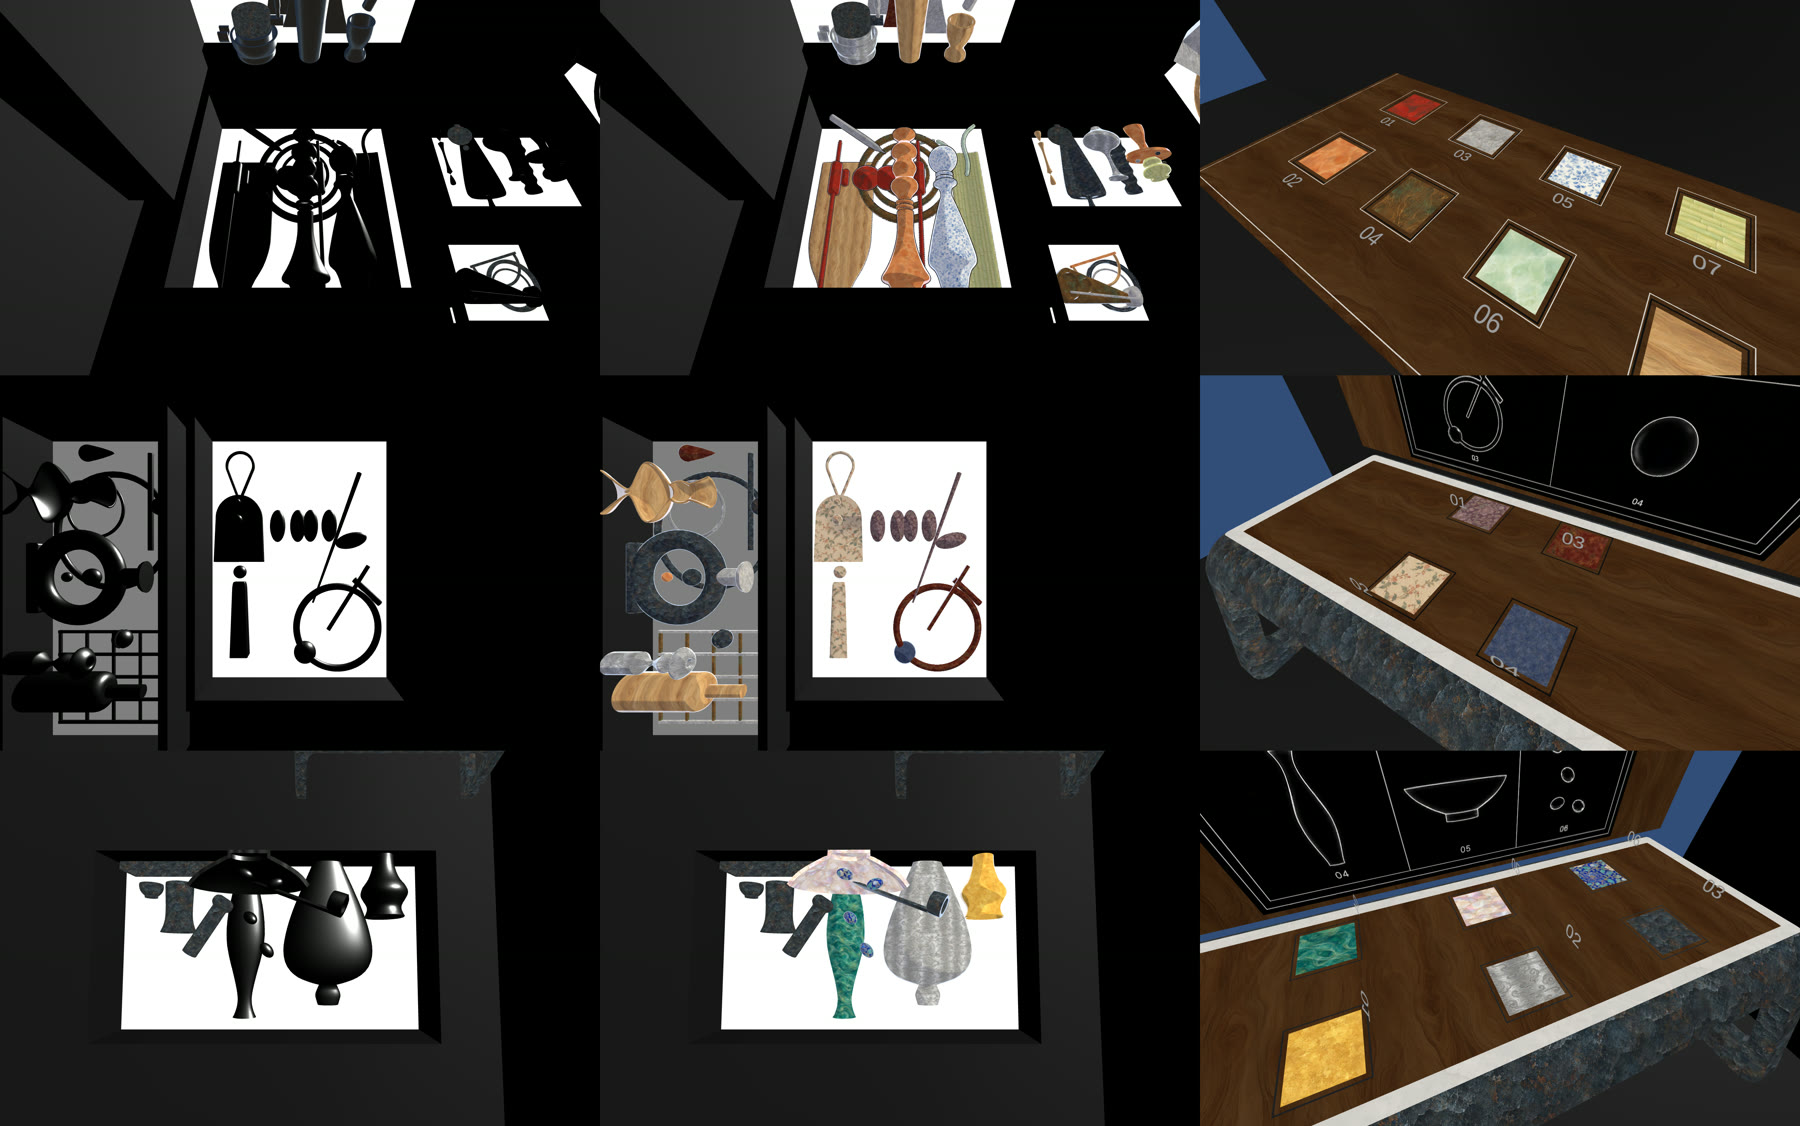
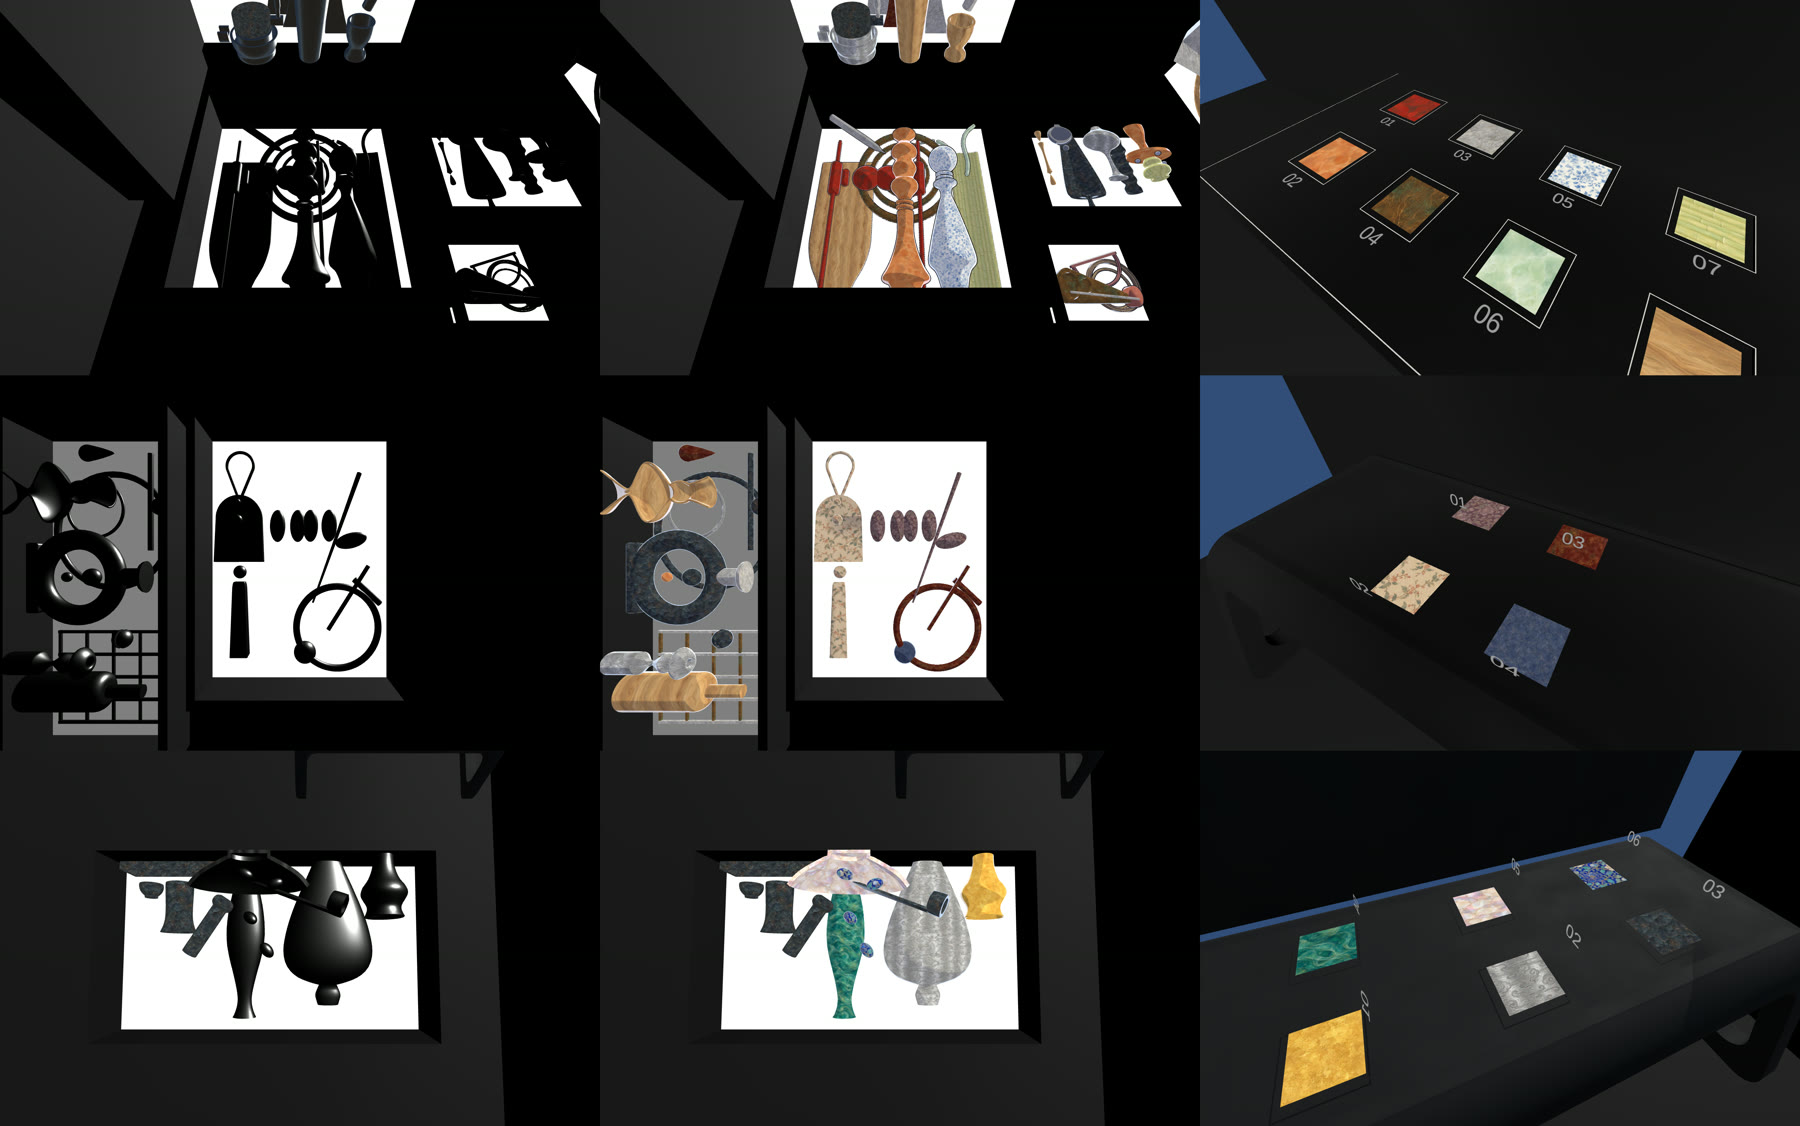
Replace outdated three-room screenshot
Re-render the three rooms from the current scene: black desks, no outline posters. Update the captions to match.

diff --git a/docs/evidence/README.md b/docs/evidence/README.md
@@ -4,7 +4,7 @@
 
 | 文件 | 内容 | 引用自 |
 |---|---|---|
-| [figures/three_rooms_grid.jpg](figures/three_rooms_grid.jpg) | 三个房间：未揭示 / 全部揭示 / 桌面样片（二、三号房截图拍摄于轮廓海报关闭之前） | [交互](../INTERACTION.md) |
+| [figures/three_rooms_grid.jpg](figures/three_rooms_grid.jpg) | 三个房间：未揭示 / 全部揭示 / 桌面质地样片 | [交互](../INTERACTION.md) |
 | [figures/room1_ray_each_item.jpg](figures/room1_ray_each_item.jpg) | 一号房：射线依次照到 8 件器物 | [交互](../INTERACTION.md) |
 | [figures/playmode_reveal_sequence.jpg](figures/playmode_reveal_sequence.jpg) | PlayMode 测试截图：未揭示 → 扩散 → 完全揭示 → 退回后 | [验证](../VALIDATION.md) |
 | [tests/playmode-results-20261115.xml](tests/playmode-results-20261115.xml) | PlayMode 测试原始结果（NUnit XML），6/6 通过 | [验证](../VALIDATION.md) |

diff --git a/docs/INTERACTION.md b/docs/INTERACTION.md
@@ -92,7 +92,7 @@
 
 **提示的演变：从形状到质地。** 轮廓缩略图让玩家可以直接照着形状找器物，不用射线去看质地，核心机制就被绕过了。所以在加入材质揭示之后，我用编辑器工具把三个房间的轮廓海报统一关闭，**槽位只用质地样片提示**（见 [工具链](TOOLS.md) 与 [开发迭代](REVIEW.md)）。
 
-![三个房间：未揭示（左）、全部揭示（中）、桌面样片（右；二、三号房截图拍摄于轮廓海报关闭之前）](evidence/figures/three_rooms_grid.jpg)
+![三个房间：未揭示（左）、全部揭示（中）、桌面质地样片（右）](evidence/figures/three_rooms_grid.jpg)
 
 最终的谜题是**质地配对**：射线让玩家看到并听到器物的真实质地，样片告诉玩家每个槽位要什么质地，两者对上才是正确答案。
 
